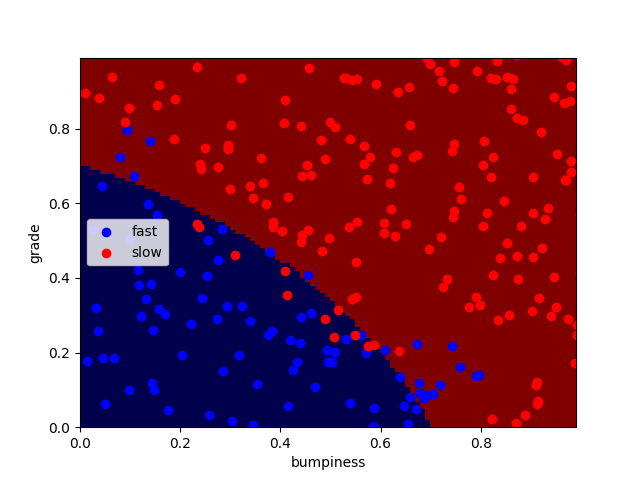
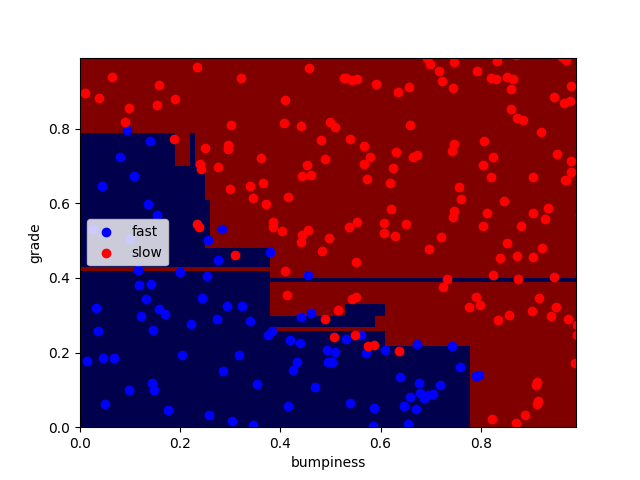
desicion tree

Changed region(s): [[0.125, 0.25, 0.9062, 0.9062]]

diff --git a/exercise1/decisiontree.py b/exercise1/decisiontree.py
@@ -1,0 +1,29 @@
+#!/usr/bin/python
+import sys
+from class_vis import prettyPicture, output_image
+from prep_terrain_data import makeTerrainData
+
+import matplotlib.pyplot as plt
+import numpy as np
+import pylab as pl
+from classifyDT import classify
+
+features_train, labels_train, features_test, labels_test = makeTerrainData()
+
+clf = classify(features_train, labels_train,2)
+pred = clf.predict(features_test)
+
+clf50 = classify(features_train, labels_train, 50)
+pred50 = clf50.predict(features_test)
+
+from sklearn.metrics import accuracy_score
+acc = accuracy_score(labels_test,pred)
+acc50 = accuracy_score(labels_test,pred50)
+
+
+def submitAccuracy():
+	return {"acc":round(acc,3)," acc50": round(acc50,3)}
+
+print(submitAccuracy())
+
+prettyPicture(clf, features_test,labels_test)

diff --git a/exercise1/classifyDT.py b/exercise1/classifyDT.py
@@ -1,0 +1,8 @@
+from sklearn import tree
+
+def classify(features_train, labels_train,split):
+
+	clf = tree.DecisionTreeClassifier(min_samples_split=split)
+	clf.fit(features_train,labels_train)
+
+	return clf

diff --git a/exercise1/svm.py b/exercise1/svm.py
@@ -18,6 +18,6 @@ from sklearn.metrics import accuracy_score
 acc = accuracy_score(pred,labels_test)
 
 def submitAccuracy():
-	return acc
+	return {"acc":round(acc,3)}
 
 print(str(acc))
